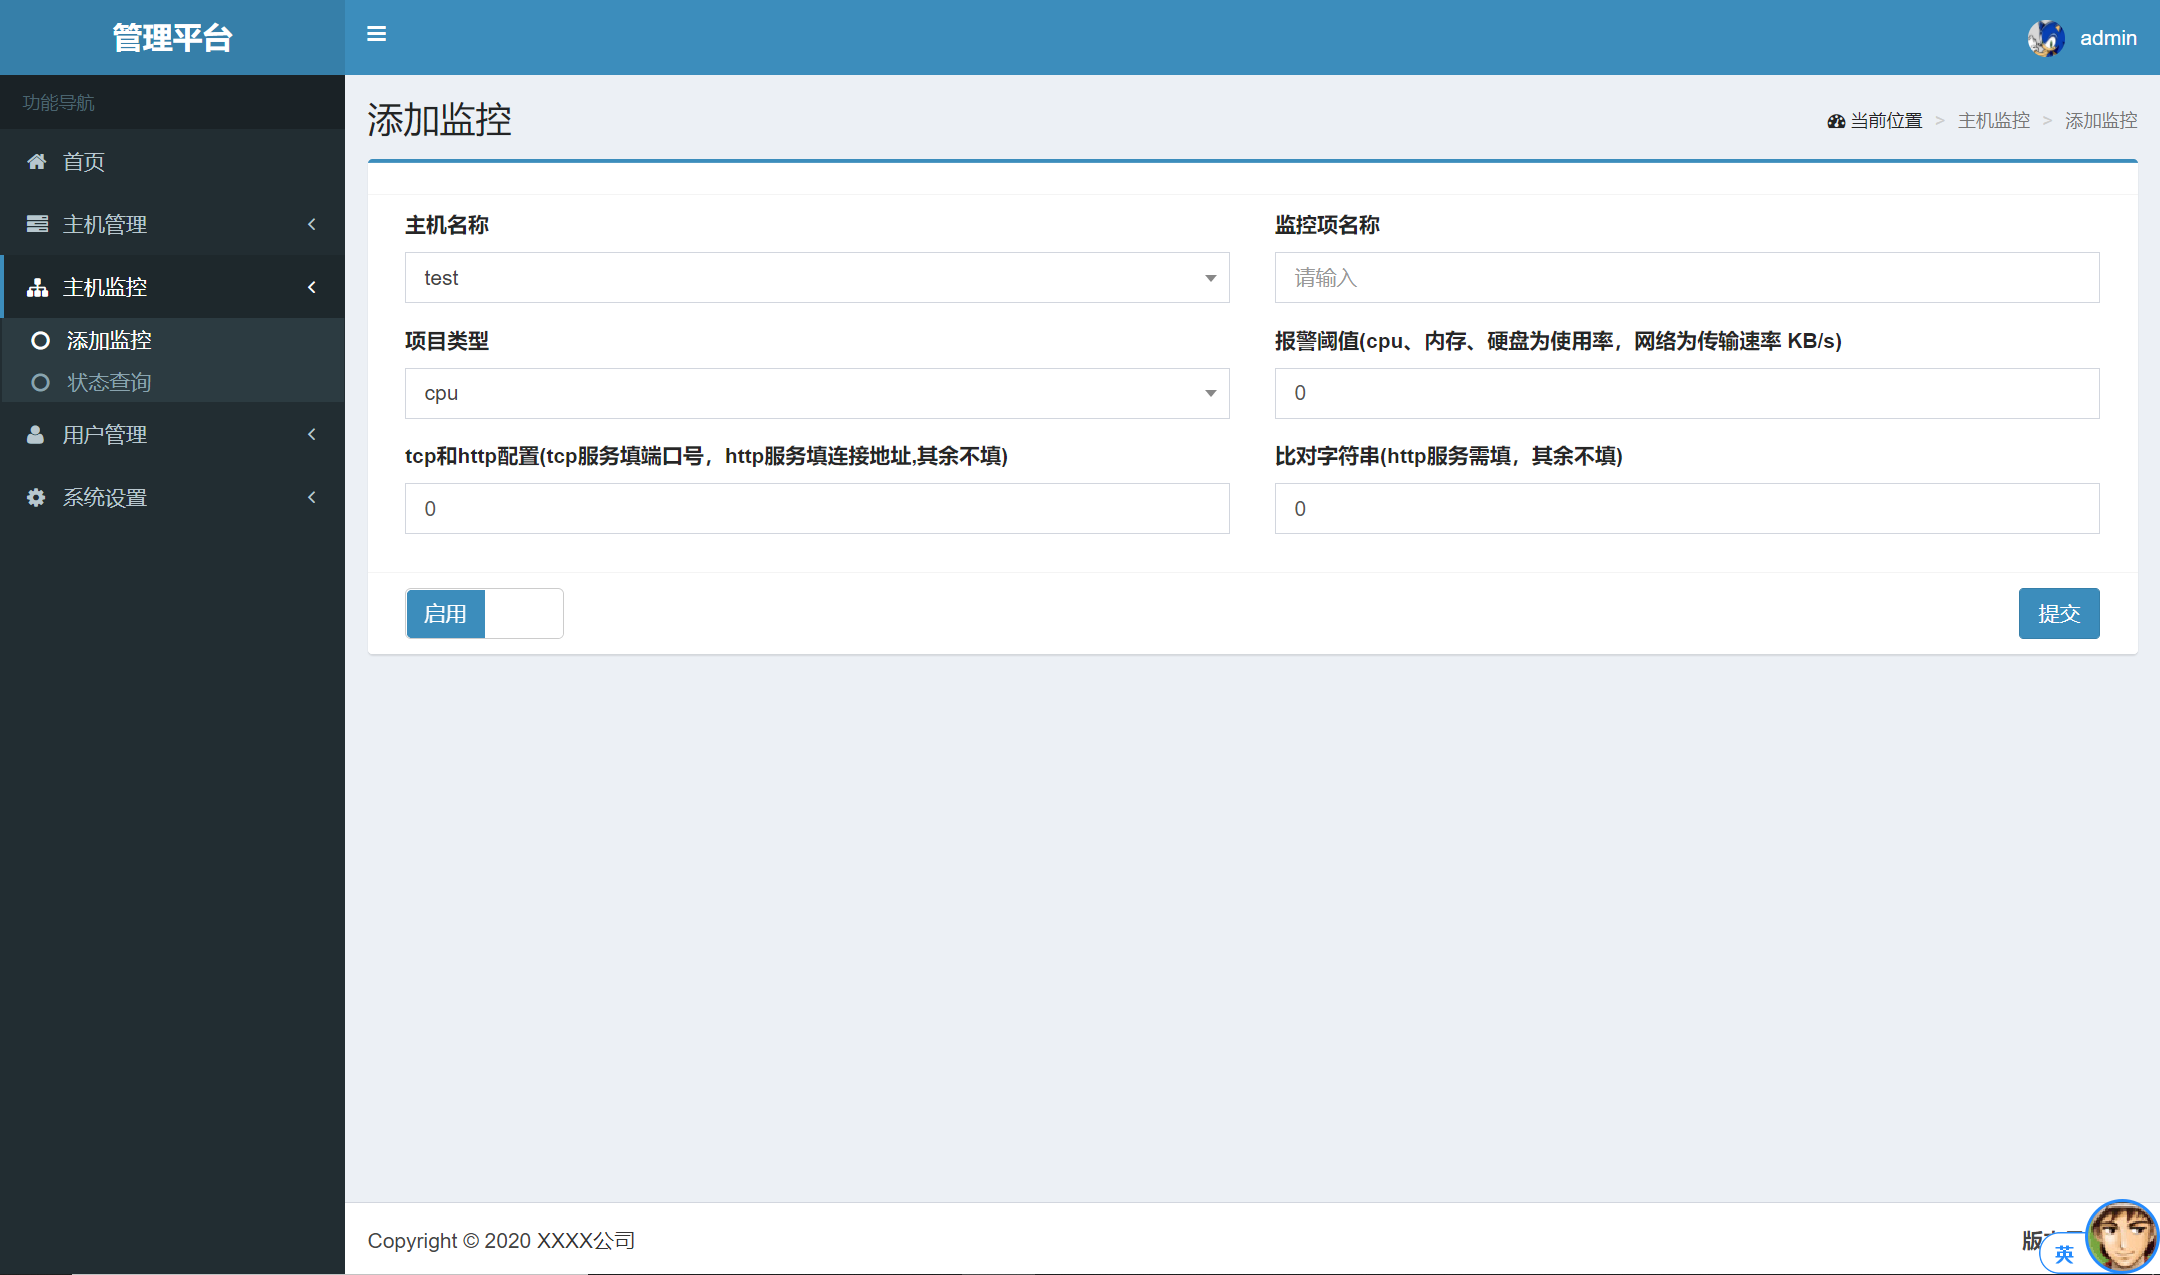
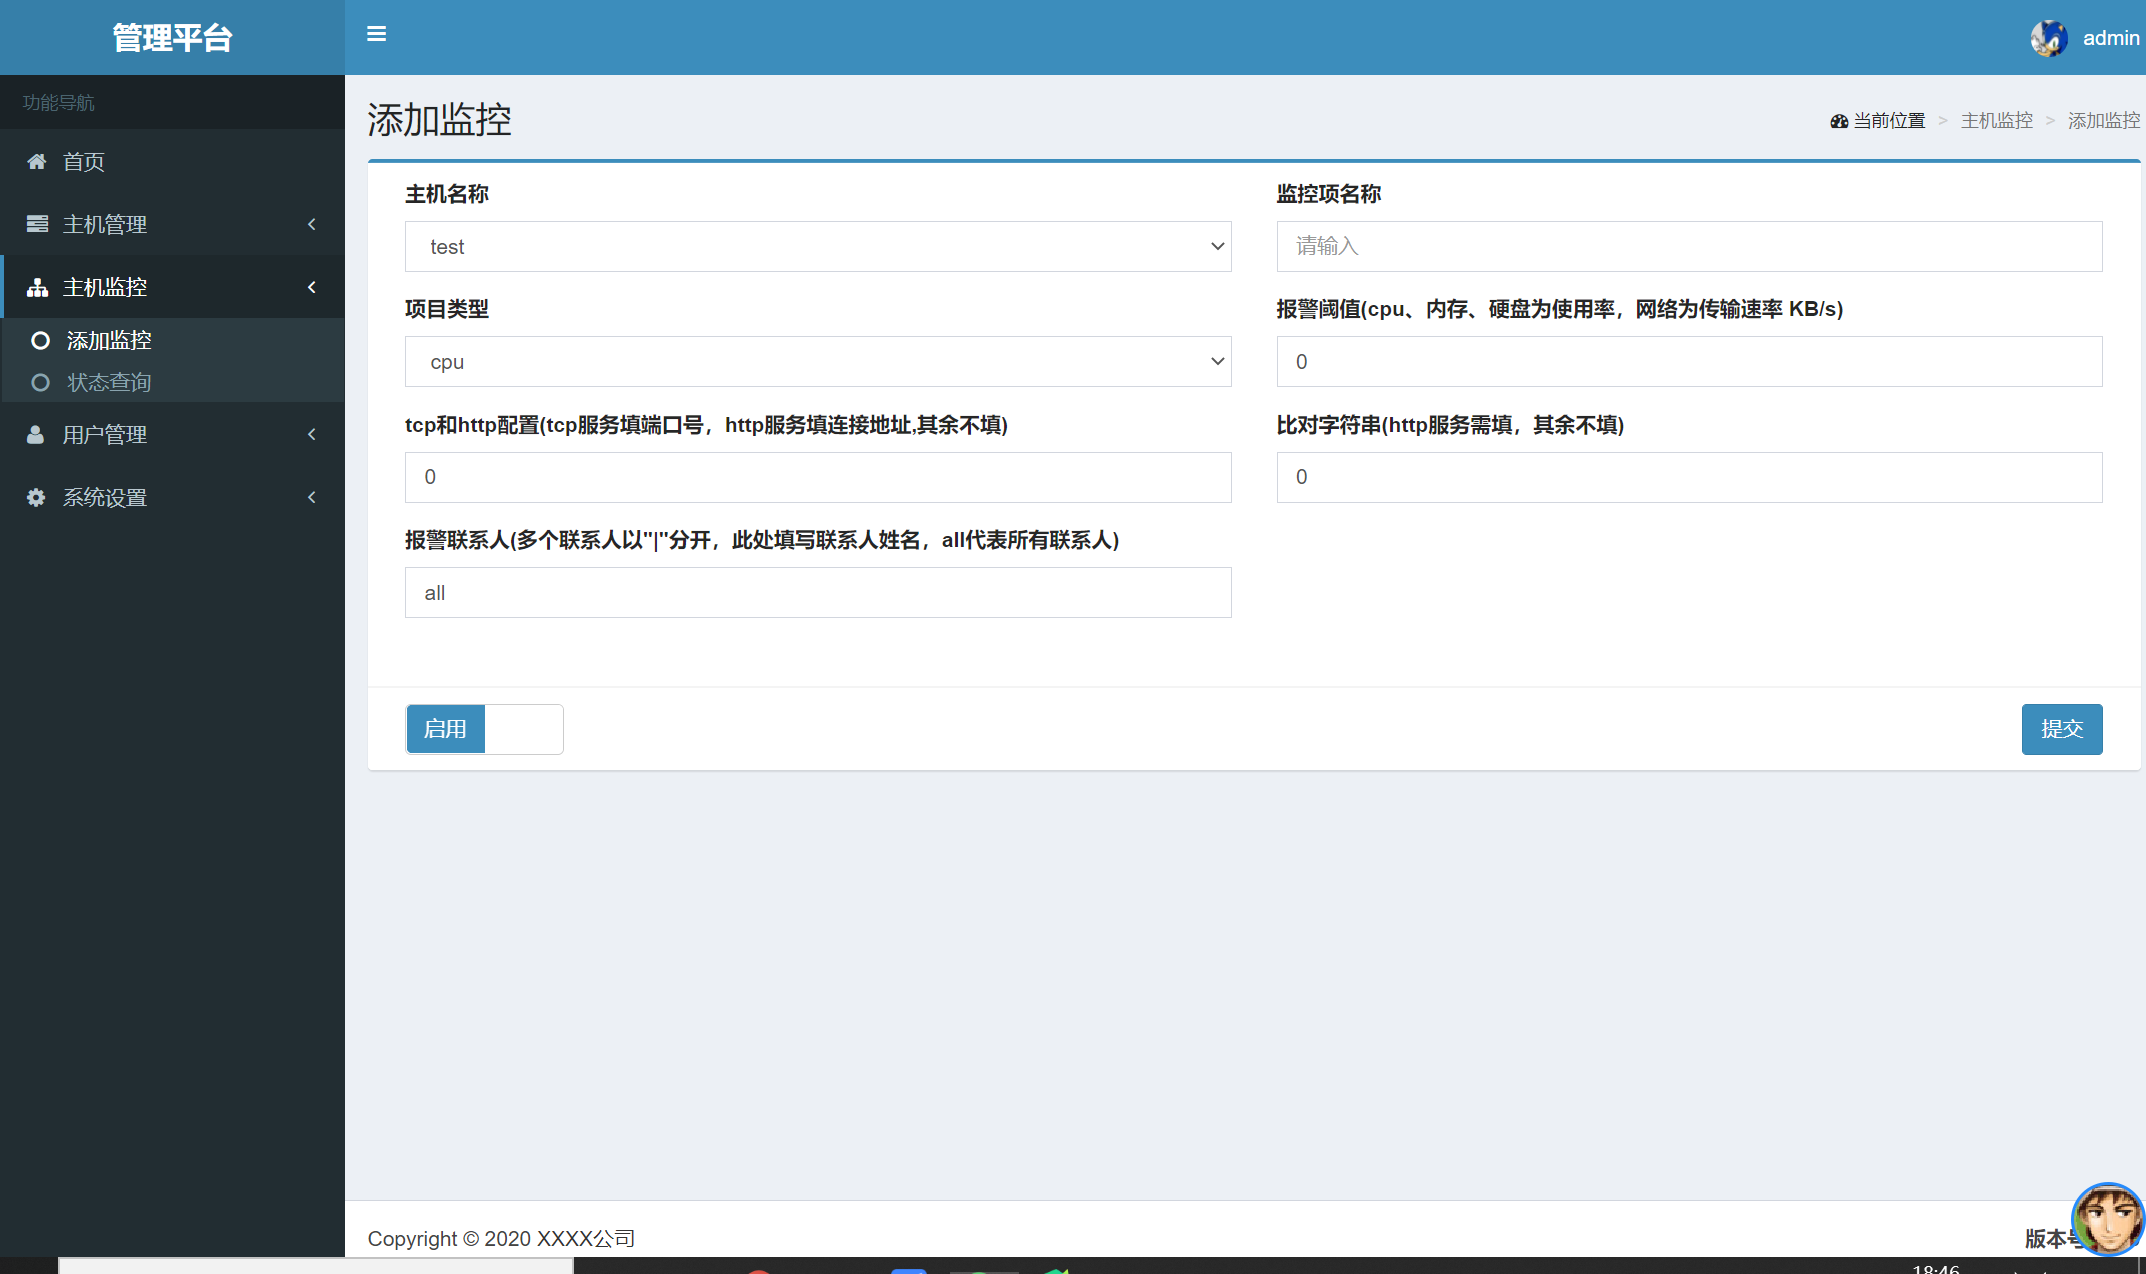
添加不同监控项对应不同联系人功能

diff --git a/monitor.py b/monitor.py
@@ -245,22 +245,24 @@ def daemonize():
 
 
 # 通知报警
-def notice(warning_item_list, conf):
-    if warning_item_list:
+def notice(warning_str, notify_user, conf):
+    if warning_str:
         mail_list = []
         phone_list = []
         warning_user_list = get_cfg(is_warning=True)
         if warning_user_list and conf.get('id'):
+            notify = notify_user.split('|')
             for user in warning_user_list:
-                if user['notify_type'] == 'MAIL':
-                    mail_list.append(user['notify_number'])
-                elif user['notify_type'] == 'SMS':
-                    phone_list.append(user['notify_number'])
+                if notify[0] == 'all' or user['notify_name'] in notify:
+                    if user['notify_type'] == 'MAIL':
+                        mail_list.append(user['notify_number'])
+                    elif user['notify_type'] == 'SMS':
+                        phone_list.append(user['notify_number'])
             if mail_list:
                 mail(smtpServer=conf['smtp_server'], smtpPort=conf['smtp_port'],loginUser=conf['smtp_user'],
                      loginPassword=str(base64.b64decode(conf['smtp_password_base64']), encoding='utf-8'),
                      mailFrom=conf['smtp_user'], mailTo=';'.join(mail_list), mailReceivers=mail_list,
-                     mailSubject='opsmonitor监控报警', mailText=''.join(warning_item_list))
+                     mailSubject='opsmonitor监控报警', mailText=warning_str)
                 logger.info('邮件已发送给{mail_to}'.format(mail_to=';'.join(mail_list)))
 
 
@@ -268,7 +270,6 @@ def notice(warning_item_list, conf):
 def inspect(inspect_item, conf):
     host_name = None
     inspect_info = None
-    warning_item_list = []
     for item in inspect_item:
         if not item['host_name'] == host_name:
             ssh = SFTP(ip=item['host_ip'], port=item['host_port'], user=item['host_user'],
@@ -284,11 +285,9 @@ def inspect(inspect_item, conf):
             warning_str = '主机:{host_name}\n监控项：{item_name}异常\n详细信息：{item_detail}\n时间：{inspect_time}\n\n\n'.format(
                 host_name=item['host_name'], item_name=item['item_name'],
                 item_detail=item_detail['monitor_item_detail'], inspect_time=datetime.now())
-            warning_item_list.append(warning_str)
+            notice(warning_str, item['notify_user'], conf)
         log = {item['host_name']: item_detail}
         logger.info(log)
-    if warning_item_list:
-        notice(warning_item_list, conf)
 
 
 def main():
